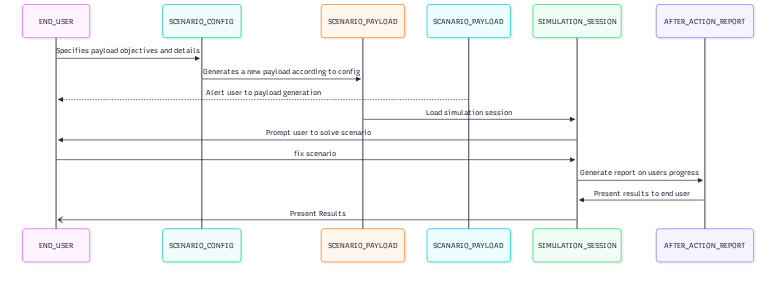
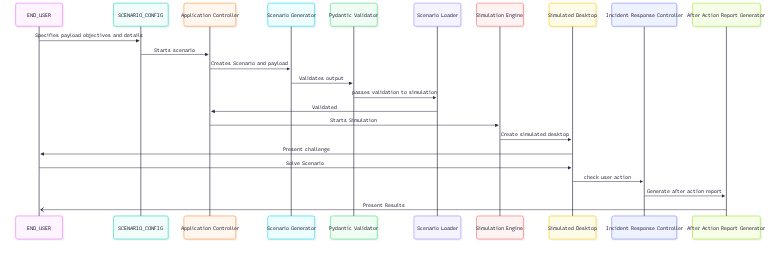
Fix sequence diagram

diff --git a/docs/design/scenario-sequence.md b/docs/design/scenario-sequence.md
@@ -14,12 +14,16 @@ This document specifies the sequence between the AI Wrapper, the scenario_config
 ```mermaid
 sequenceDiagram
 END_USER ->> SCENARIO_CONFIG: Specifies payload objectives and details
-SCENARIO_CONFIG ->> SCENARIO_PAYLOAD: Generates a new payload according to config
-SCANARIO_PAYLOAD -->> END_USER: Alert user to payload generation
-SCENARIO_PAYLOAD ->> SIMULATION_SESSION: Load simulation session
-SIMULATION_SESSION->> END_USER: Prompt user to solve scenario
-END_USER ->> SIMULATION_SESSION: fix scenario
-SIMULATION_SESSION ->> AFTER_ACTION_REPORT: Generate report on users progress
-AFTER_ACTION_REPORT ->> SIMULATION_SESSION: Present results to end user
-SIMULATION_SESSION -) END_USER: Present Results
+SCENARIO_CONFIG ->> Application Controller: Starts scenario
+Application Controller ->> Scenario Generator: Creates Scenario and payload
+Scenario Generator ->> Pydantic Validator: Validates output
+Pydantic Validator ->> Scenario Loader: passes validation to simulation
+Scenario Loader ->> Application Controller: Validated
+Application Controller ->> Simulation Engine: Starts Simulation
+Simulation Engine ->> Simulated Desktop: Create simulated desktop
+Simulated Desktop ->> END_USER: Present challenge
+END_USER ->> Simulated Desktop: Solve Scenario
+Simulated Desktop ->> Incident Response Controller: check user action
+Incident Response Controller ->> After Action Report Generator: Generate after action report
+After Action Report Generator -) END_USER: Present Results
 ```
